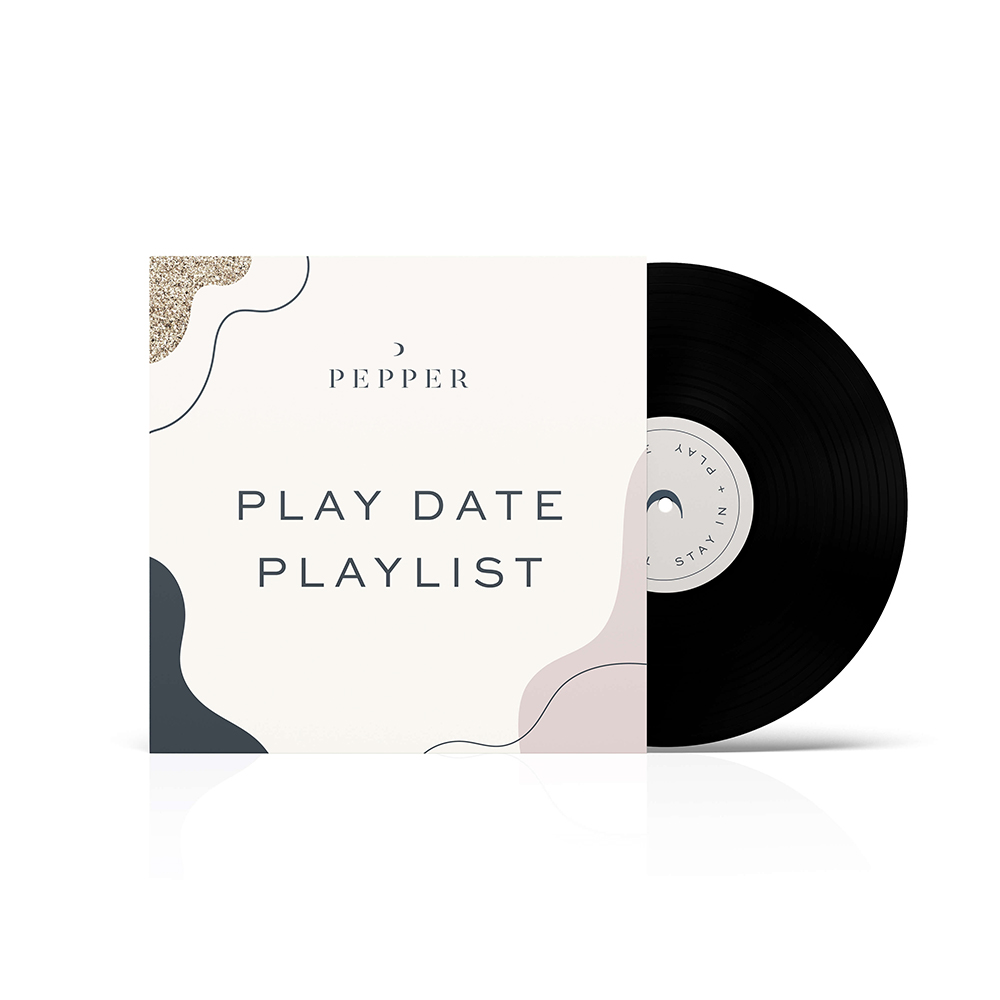
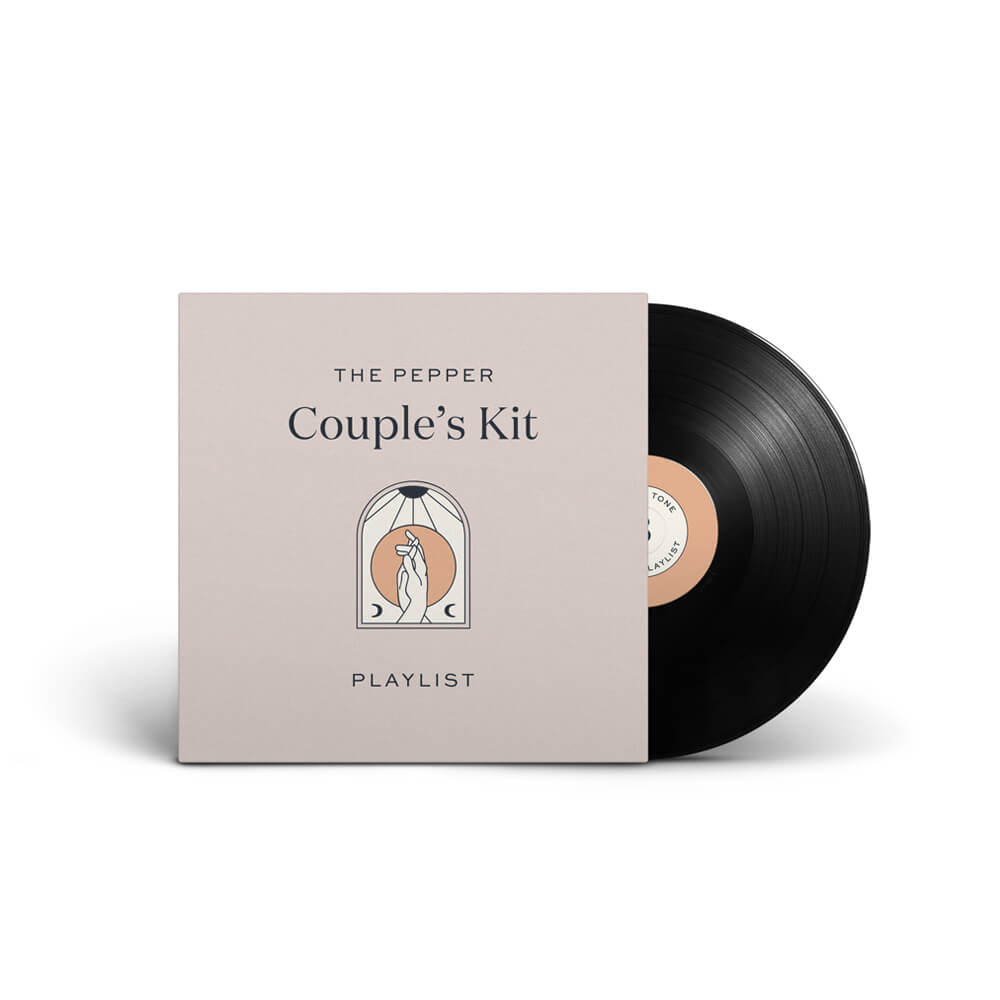
updates for 1280x800 res and playlist update

Changed region(s): [[0.093, 0.248, 0.93, 0.775]]

diff --git a/templates/pages/custom/product/couples-kit.html b/templates/pages/custom/product/couples-kit.html
@@ -167,7 +167,9 @@ blog:
                     <div class="bundle__slide bundle__slide--outer">
                         <div class="bundle__slide--inner">
                             <div class="bundle__slide--img">
-                                <img src="{{cdn '/img/playlist.jpg' }}" alt="">
+                                <a href="https://open.spotify.com/playlist/6o3IqbEf4JH3T012WaiwmQ" target="_blank">
+                                    <img src="{{cdn '/img/playlist.jpg' }}" alt="">
+                                </a>
                             </div>
                             <div class="bundle__slide--title">
                                 The Couple&rsquo;s Kit Playlist
@@ -220,15 +222,17 @@ blog:
             </div>
         </section>
 
-        {{#each blog.recent_posts}}
-            {{#contains (JSONstringify (pluck tags 'name')) 'kit' }}
+        {{#each (limit blog.recent_posts 5)}}
+            {{#contains (join (pluck tags 'name') ', ') 'featured-home' }}
                 {{> components/blog/featured-blog-post post=this}}
             {{/contains}}
         {{/each}}
 
         <div class="story-archive container">
-            {{#each (limit blog.recent_posts 3)}}
-                {{> components/blog/post post=this sense=true}}
+            {{#each (limit blog.recent_posts 10)}}
+                {{#contains (join (pluck tags 'name') ', ') 'homepage' }}
+                    {{> components/blog/post post=this sense=true}}
+                {{/contains}}
             {{/each}}
         </div>
 

diff --git a/assets/scss/layouts/blog/_blog.scss b/assets/scss/layouts/blog/_blog.scss
@@ -98,12 +98,13 @@
     line-height: 1.1;
     
     @include breakpoint($screen-xmedium) {
-        font-size: 2.25rem;
-        max-width: 600px;
+        font-size: 2rem;
+        max-width: 500px;
     }
     
     @include breakpoint($screen-xlarge) {
         font-size: 2.75rem;
+        max-width: 600px;
     }
 }
 
@@ -115,10 +116,11 @@
     @include breakpoint($screen-xmedium) {
         line-height: 1.7;
         margin-bottom: 3rem;
-        max-width: 600px;
+        max-width: 500px;
     }
     @include breakpoint($screen-xlarge) {
         font-size: 2rem;
+        max-width: 600px;
     }
 }
 
@@ -511,6 +513,13 @@
     max-width: 930px;
     padding: 0 5%;
 
+    a {
+        color: stencilColor('navy');
+        &:hover {
+            color: stencilColor('pink');
+        }
+    }
+
     @include breakpoint("medium") {
         margin-bottom: 6rem;
         margin-top: 6rem;
@@ -520,7 +529,7 @@
         padding: 0;
     }
     
-    h2, p {
+    h2, p, ol, ul {
         margin-left: auto;
         margin-right: auto;
         max-width: 80%;

diff --git a/assets/scss/components/common/_hero.scss b/assets/scss/components/common/_hero.scss
@@ -5,7 +5,7 @@
    background-size: cover;
    display: flex;
    font-family: stencilFontFamily('domaine-font');
-   min-height: 50vh;
+   height: 50vh;
    justify-content: center;
    position: relative;
    text-align: center;
@@ -19,9 +19,13 @@
       top: 0;
       z-index: 0;
    }
-   @include breakpoint('large') {
+   @include breakpoint('medium') {
       height: 70vh;
       min-height: 650px;
+   }
+   @include breakpoint($screen-xlarge) {
+      height: 70vh;
+      min-height: 700px;
    }
    .page__hero--inner {
       @extend .container;

diff --git a/assets/scss/components/common/_nav.scss b/assets/scss/components/common/_nav.scss
@@ -116,8 +116,15 @@
    position: relative;
    font-family: stencilFontFamily("sweet-font");
    letter-spacing: 2px;
-   font-size: 17px;
-   
+   font-size: 1rem;
+
+   @include breakpoint('medium') {
+      font-size: 0.8rem;
+   }
+   @include breakpoint($screen-xlarge) {
+      font-size: 1rem;
+   }
+
    img {
       max-width: 20px;
    }

diff --git a/assets/scss/layouts/container/_container.scss b/assets/scss/layouts/container/_container.scss
@@ -10,7 +10,7 @@
     position: relative;
     width: layout("fixed");
     @include breakpoint('large') {
-        max-width: 960px;
+        max-width: 1040px;
     }
     @media (min-width: $screen-xlarge) {
         max-width: 1140px;
